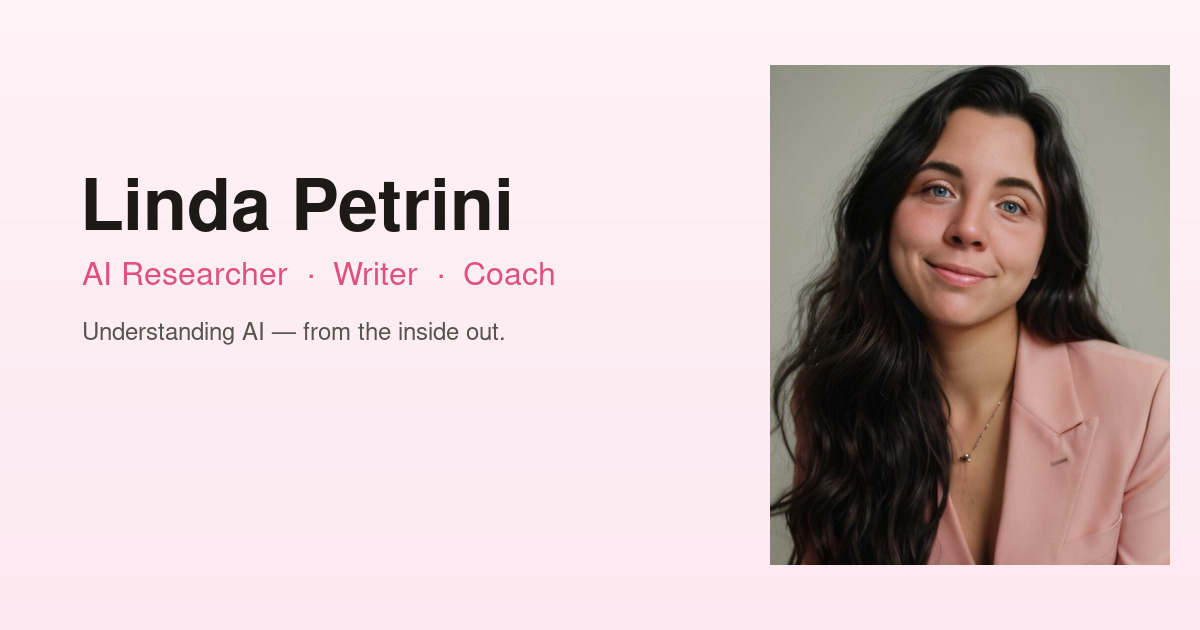
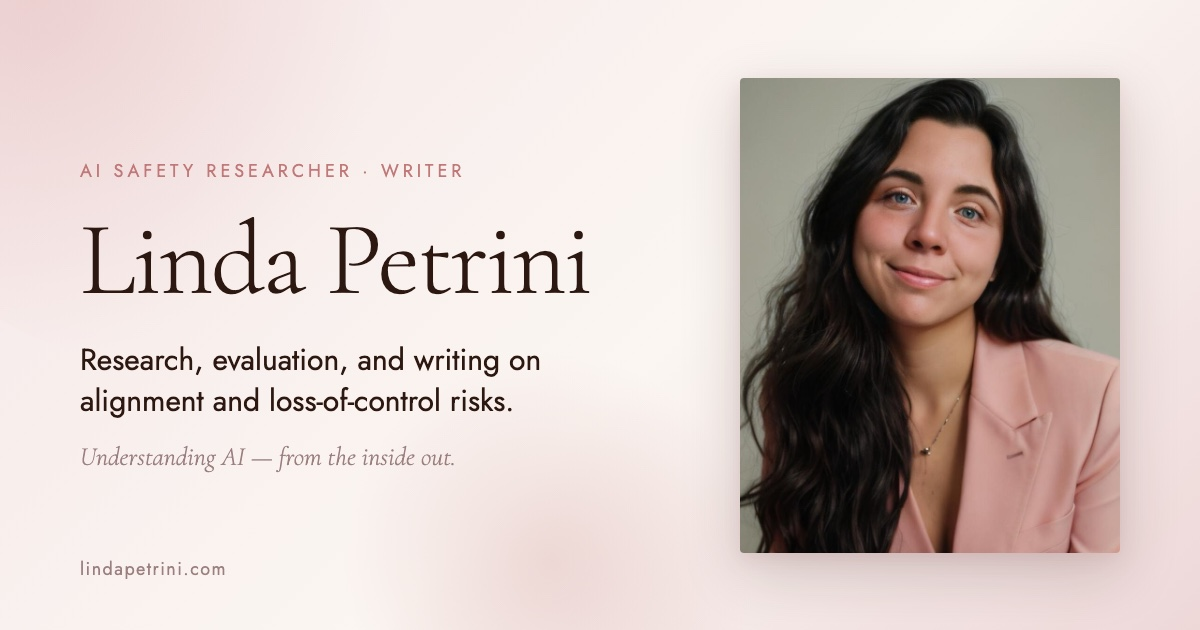
Refresh social preview image and clarify engagements
Replace OG image with new preview matching site aesthetic (serif name,
AI Safety Researcher · Writer eyebrow, "Understanding AI — from the
inside out" tagline). Rewrite homepage hero intro to reflect actual
relationships: contract work with Anthropic, collaboration with
Foresight, past work with Palisade.

diff --git a/index.html b/index.html
@@ -117,8 +117,9 @@
             <h1 class="hero__heading">AI safety research, evaluation, and technical writing</h1>
             <p class="hero__intro">
               Freelance AI safety researcher and writer, focused on alignment and
-              loss-of-control risks. Currently working with Anthropic, Palisade Research,
-              and Foresight Institute. Previously Google Brain AI Residency and Research Associate.
+              loss-of-control risks. Contract work with Anthropic, ongoing collaboration
+              with Foresight Institute, previously Palisade Research. Before that, Google
+              Brain AI Residency and Research Associate.
             </p>
             <div class="hero__actions">
               <a href="/work.html" class="btn btn--primary btn--lg">See my publications</a>
